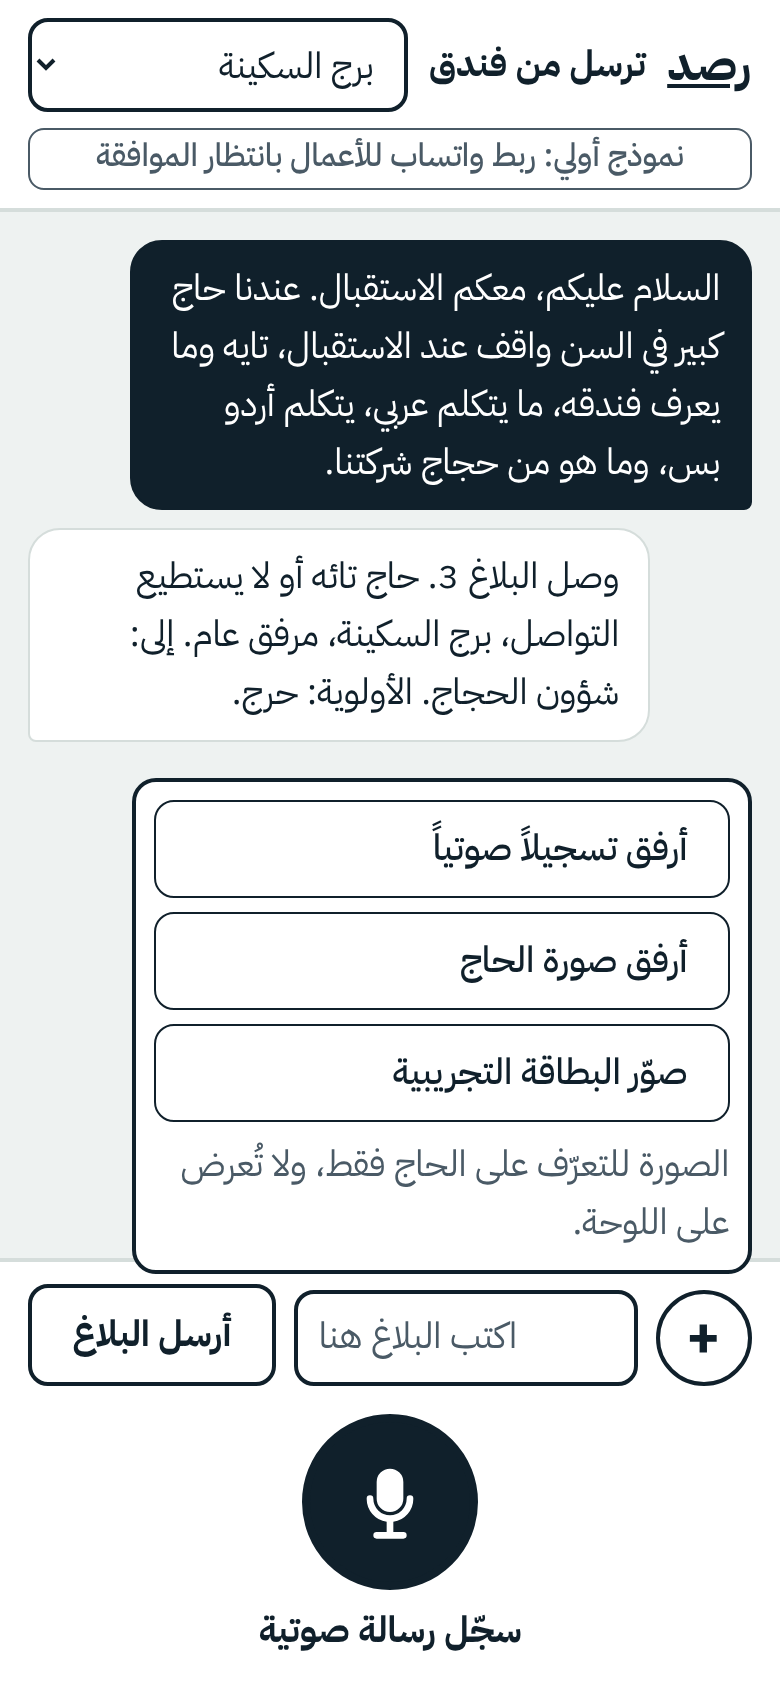
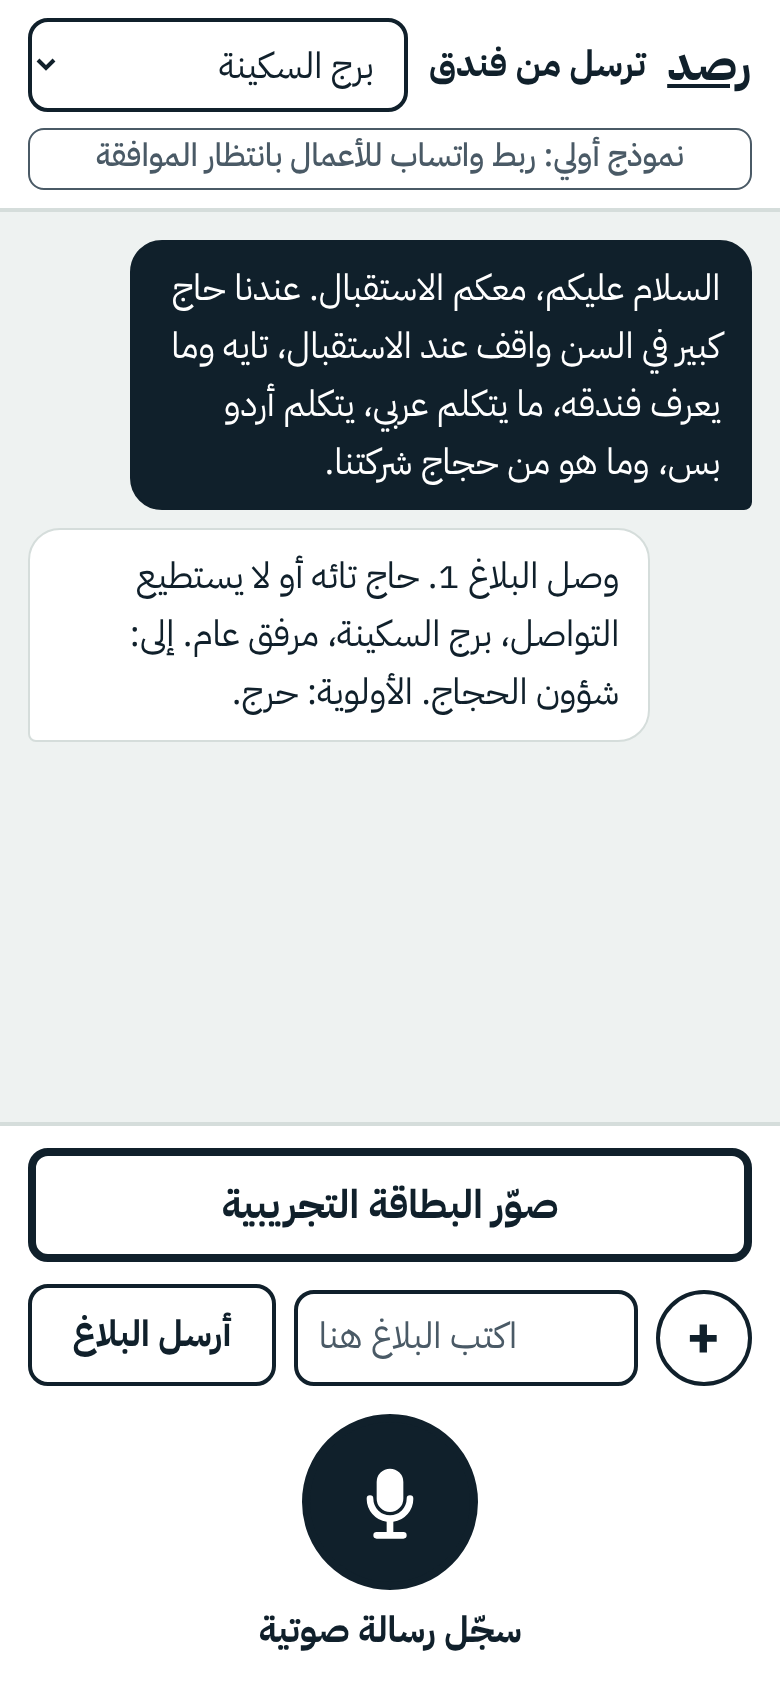
Phone page: the plus menu stays closed; the mock card is a suggestion above the text box
After a lost-pilgrim report one highlighted button appears just above the
text box and opens the camera directly. It hides again after the card is
read. The plus menu is never opened by the page itself. New phone screenshot.

Claude-Session: https://claude.ai/code/session_014yvANP8jguTti4Q9X7Xmyt

diff --git a/app/static/report.js b/app/static/report.js
@@ -14,7 +14,6 @@
   var cardButton = document.getElementById("card-button");
   var record = document.getElementById("record");
   var message = document.getElementById("report-message");
-  var more = document.getElementById("more");
   var lastCase = null;
 
   function say(words) { message.textContent = words || ""; message.hidden = !words; }
@@ -56,10 +55,10 @@
     var data = result.data;
     if (data.heard) { bubble(T.heard + ": " + data.heard, true); }
     var reply = bubble(data.message, false);
-    if (data.identified) { cardButton.hidden = true; if (more) { more.open = false; } return; }
+    if (data.identified) { cardButton.hidden = true; return; }
     if (data.case_id) { lastCase = data.case_id; }
-    // The card step is now possible: its button appears and the "+" opens, so nobody has to look for it.
-    if (data.type === "lost_pilgrim") { cardButton.hidden = false; if (more) { more.open = true; } }
+    // The card step is now possible: one suggestion button appears above the text box. The "+" stays closed.
+    if (data.type === "lost_pilgrim") { cardButton.hidden = false; }
     if (data.question) { ask(reply, data); }
   }
 

diff --git a/app/templates/report.html b/app/templates/report.html
@@ -24,6 +24,10 @@
 <p id="report-message" class="message" role="alert" hidden></p>
 <p class="resend-row"><button type="button" id="resend" hidden>{{ copy.RESEND }}</button></p>
 <div class="composer">
+  {# Shown only while photographing the mock card is possible: after a lost-pilgrim report, until the card is read. #}
+  <label class="file-button suggestion" id="card-button" hidden>{{ copy.SHOW_CARD }}
+    <input id="card-photo" type="file" accept="image/*" capture="environment">
+  </label>
   {# Second option: the text box, with the one small "+" that opens the attachments. #}
   <div class="composer-row">
     <details class="more" id="more">
@@ -34,9 +38,6 @@
         </label>
         <label class="file-button">{{ copy.ATTACH_PHOTO }}
           <input id="pilgrim-photo" name="pilgrim_photo" type="file" accept="image/*" capture="environment">
-        </label>
-        <label class="file-button" id="card-button" hidden>{{ copy.SHOW_CARD }}
-          <input id="card-photo" type="file" accept="image/*" capture="environment">
         </label>
         <p class="note">{{ copy.PHOTO_NOTE }}</p>
       </div>

diff --git a/app/static/style.css b/app/static/style.css
@@ -154,6 +154,8 @@ html.board-root { font-size: calc(16px * var(--board-scale, 1)); }
 .composer { background: var(--card); border-top: 2px solid var(--line); padding: .6rem .8rem .8rem; }
 .composer-row { display: flex; gap: .5rem; align-items: flex-end; }
 .composer textarea { flex: 1; min-height: 48px; resize: none; }
+/* A suggestion for the next step: stands out by its heavy border, with no meaning colour. */
+.suggestion { width: 100%; justify-content: center; min-height: 56px; border-width: 4px; font-size: 1.1rem; margin-bottom: .6rem; }
 /* The one small "+" that opens the attachments. */
 .more { position: relative; }
 .more summary { list-style: none; width: 48px; height: 48px; border: 2px solid var(--text); border-radius: 50%; display: flex; align-items: center; justify-content: center; font-size: 1.6rem; font-weight: 700; cursor: pointer; }

diff --git a/tests/test_design.py b/tests/test_design.py
@@ -275,6 +275,22 @@ def test_the_attachments_are_behind_one_small_plus_button(site):
     page = site.get("/report").text
     more = page[page.index('<details class="more"') : page.index("</details>")]
     assert f'aria-label="{copy.MORE_ATTACHMENTS}"' in more and ">+<" in more
-    for control in ('id="audio-file"', 'id="pilgrim-photo"', 'id="card-photo"'):
+    for control in ('id="audio-file"', 'id="pilgrim-photo"'):
         assert control in more
+    assert "<details class=\"more\" id=\"more\">" in page  # no "open": it starts closed
     assert page.index('id="text"') < page.index('id="record"')  # the text box is the second option, above the record button
+
+
+def test_the_plus_menu_is_never_opened_by_the_page_itself(site):
+    assert ".open = true" not in site.get("/static/report.js").text
+
+
+def test_the_mock_card_is_one_suggestion_button_above_the_text_box_hidden_until_it_is_possible(site):
+    page = site.get("/report").text
+    more = page[page.index('<details class="more"') : page.index("</details>")]
+    assert 'id="card-photo"' not in more
+    button = page[page.index('id="card-button"') - 80 : page.index('id="card-photo"') + 120]
+    assert "suggestion" in button and " hidden>" in button and copy.SHOW_CARD in button
+    assert 'capture="environment"' in button  # it opens the camera directly
+    assert page.index('id="chat"') < page.index('id="card-button"') < page.index('id="text"')
+

diff --git a/QUESTIONS.md b/QUESTIONS.md
@@ -407,6 +407,8 @@ as a messaging app. Choices I made where the brief was silent:
 border on the start side (96); one critical case spans the band and two or more
 share the row equally; on the phone page the record button is the only main
 action, the text box is the second option, and the three attachments are
-behind one small "+". My choice there: when the mock-card step becomes
-possible the "+" opens by itself, so the button is not hidden during the scene.
+behind one small "+". The owner then decided: the "+" is always closed by
+default; when the mock-card step becomes possible one highlighted suggestion
+button appears above the text box and opens the camera directly, and it hides
+again after the card is read.
 

diff --git a/CLAUDE.md b/CLAUDE.md
@@ -18,7 +18,7 @@ these before changing anything:
   has not yet confirmed them, except the three listed below. Treat the rest as provisional.
 - `DEMO.md` (Arabic): demo-day guide. `WHATSAPP_COUNT.md` (Arabic): the counting tool.
 
-What exists (927 tests, `python -m pytest`, no key and no network needed):
+What exists (929 tests, `python -m pytest`, no key and no network needed):
 
 - `rasd/`: the rules. The model READS a message (`understand.py`); the team's
   tables DECIDE owner, priority and deadlines (`routing.py`); our code CHECKS
